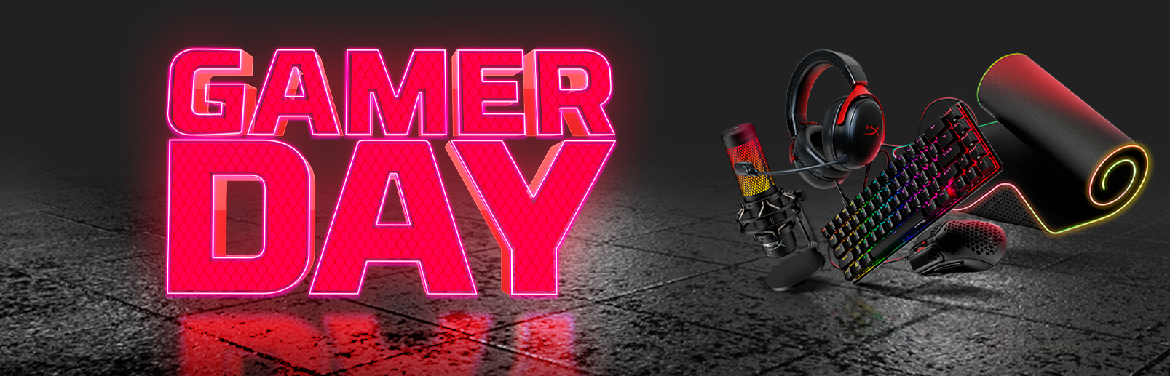
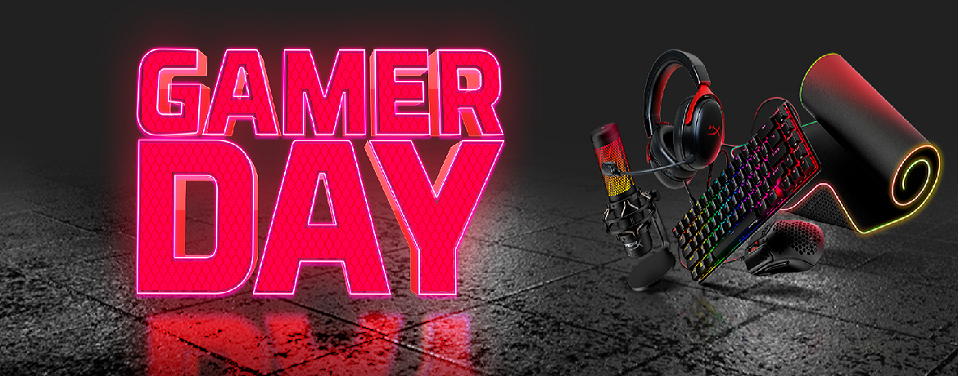
responsive img dia
se modifico tamaño de imagen en componente dia para apaptarla mejor al contenedor

diff --git a/allgamer/src/componentes/Dia/Dia.jsx b/allgamer/src/componentes/Dia/Dia.jsx
@@ -3,7 +3,7 @@ import './dia.css'
 
 const Dia = () => {
   return ( 
-  <div className='w-75 m-auto fondoDia d-flex justify-content-center align-items-end mt-5 gap-1 pb-2'>
+  <div className='w-75 m-auto border fondoDia d-flex justify-content-center align-items-end mt-5 gap-1 pb-2'>
   <div className='d-flex flex-column flex-lg-row align-items-center gap-1'>
     <p className='letraRosa m-0'>11/11 preparate para disfrutar tu dia a lo grande...</p>
     <a className='vinculo' href="">Mas Informacion..</a>

diff --git a/allgamer/src/componentes/Dia/dia.css b/allgamer/src/componentes/Dia/dia.css
@@ -6,6 +6,12 @@
     
 }
 
+@media (max-width: 990px) {
+    .fondoDia{
+        background: url('../../assets/img/gamerday-banner-chico.png')  no-repeat; 
+    }
+}
+
 .vinculo{  
     color: #E82C5F !important;
     font-size: 20px;
